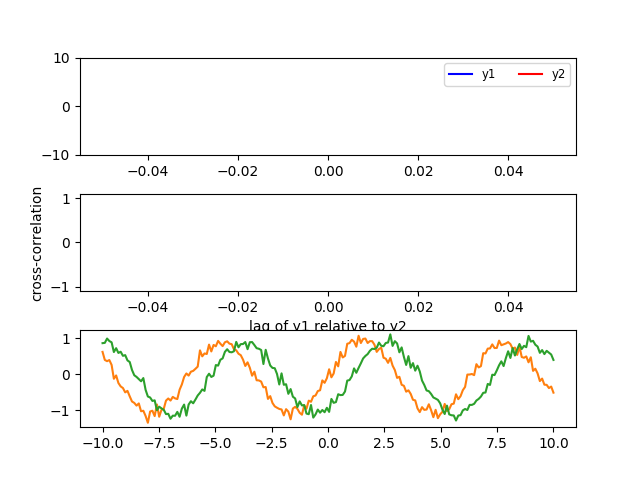
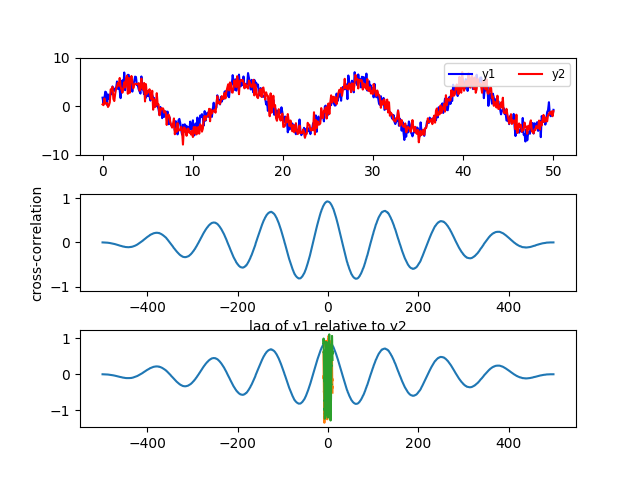
+ missing squeeze()

diff --git a/plo7y/plotters/ccf_test.py b/plo7y/plotters/ccf_test.py
@@ -2,14 +2,13 @@ from unittest import TestCase
 import matplotlib.pyplot as plt
 import sys
 import numpy as np
+import pandas as pd
 
 from plo7y._tests import get_test_output_path
 
 
 def _get_testdata_out_of_phase_sines():
     print("creating example covariance data.")
-    import numpy as np
-    import pandas as pd
     np.random.seed(0)
     x_0 = -10
     x_f = 10
@@ -25,7 +24,7 @@ def _get_testdata_out_of_phase_sines():
     plt.clf()
     dta = pd.DataFrame(y1)  # [x, y1, y2]  # TODO dataframe?
     exog = pd.DataFrame(y2)
-    return dta, exog
+    return pd.DataFrame(x), dta, exog
 
 
 def _get_testdata_noisy_sines():
@@ -37,7 +36,7 @@ def _get_testdata_noisy_sines():
     y1 = 5 * np.sin(x/2) + np.random.randn(npts)
     # y2 = 5 * np.cos(x/2) + np.random.randn(npts)
     y2 = 5 * np.sin(x/2) + np.random.randn(npts)
-    return x, y1, y2
+    return pd.DataFrame(x), pd.DataFrame(y1), pd.DataFrame(y2)
 
 
 def _get_testdata_binary_and_noise():
@@ -51,24 +50,36 @@ class Test_ccf(TestCase):
     def tearDown(self):
         plt.clf()
 
-    def test_ccf_plot_on_sample_data(self):
+    def test_ccf_plot_on_phased_sines(self):
         from plo7y.plotters.ccf import plotCCF
 
-        dta, exog = _get_testdata_out_of_phase_sines()
+        x, y1, y2 = _get_testdata_out_of_phase_sines()
         plotCCF(
-            dta, exog, saveFigPath=get_test_output_path(
+            y1, y2, saveFigPath=get_test_output_path(
                 __file__, sys._getframe().f_code.co_name
             )
         )
 
 
 class Test_cross_correlation(TestCase):
-    def test_cross_correlation_on_sample_data(self):
+    def test_cross_correlation_on_noisy_sines(self):
         from plo7y.plotters.cross_correlation import plot
 
         x, y1, y2 = _get_testdata_noisy_sines()
         plot(
-            x, y1, y2,
+            x.squeeze().to_numpy(), y1.squeeze().to_numpy(), y2.squeeze().to_numpy(),
+            # dta, exog,
+            saveFigPath=get_test_output_path(
+                __file__, sys._getframe().f_code.co_name
+            )
+        )
+
+    def test_cross_correlation_on_phased_sines(self):
+        from plo7y.plotters.cross_correlation import plot
+
+        x, y1, y2 = _get_testdata_out_of_phase_sines()
+        plot(
+            x.squeeze().to_numpy(), y1.squeeze().to_numpy(), y2.squeeze().to_numpy(),
             # dta, exog,
             saveFigPath=get_test_output_path(
                 __file__, sys._getframe().f_code.co_name
